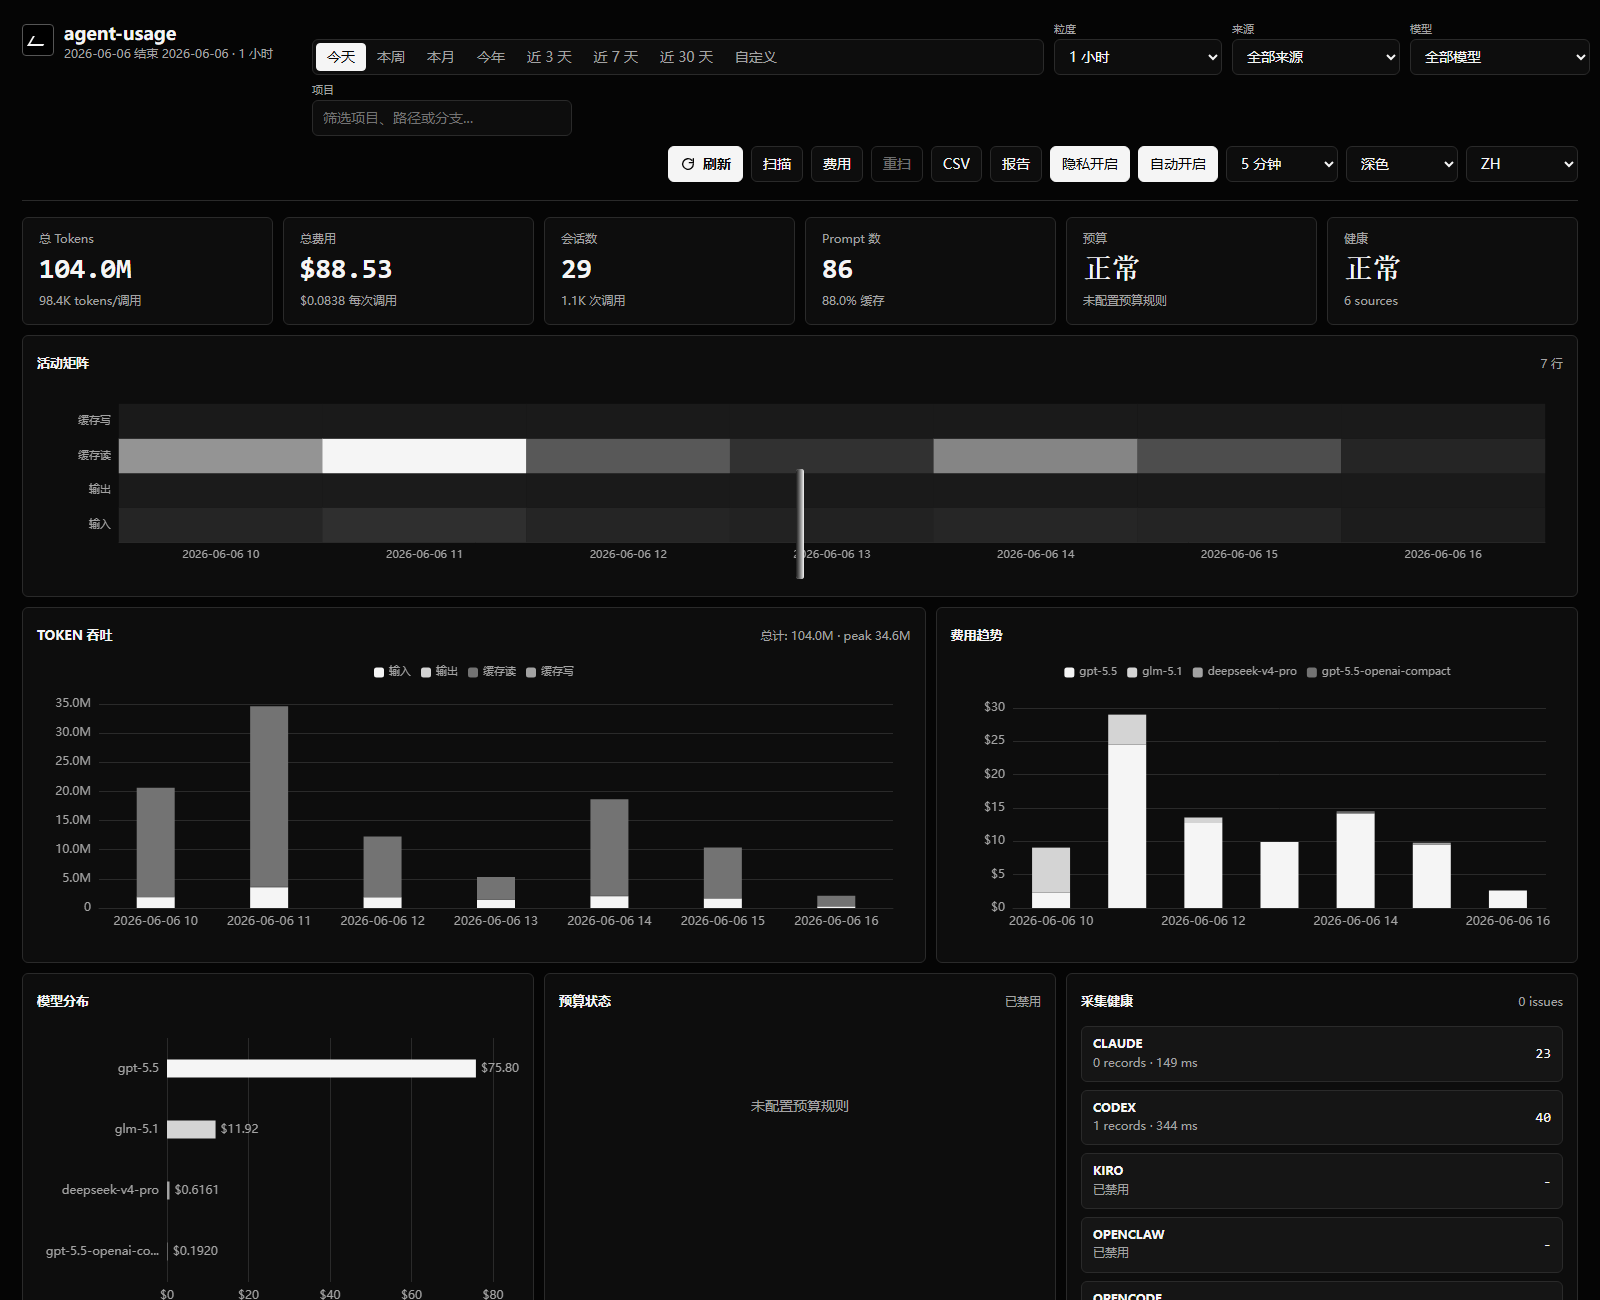
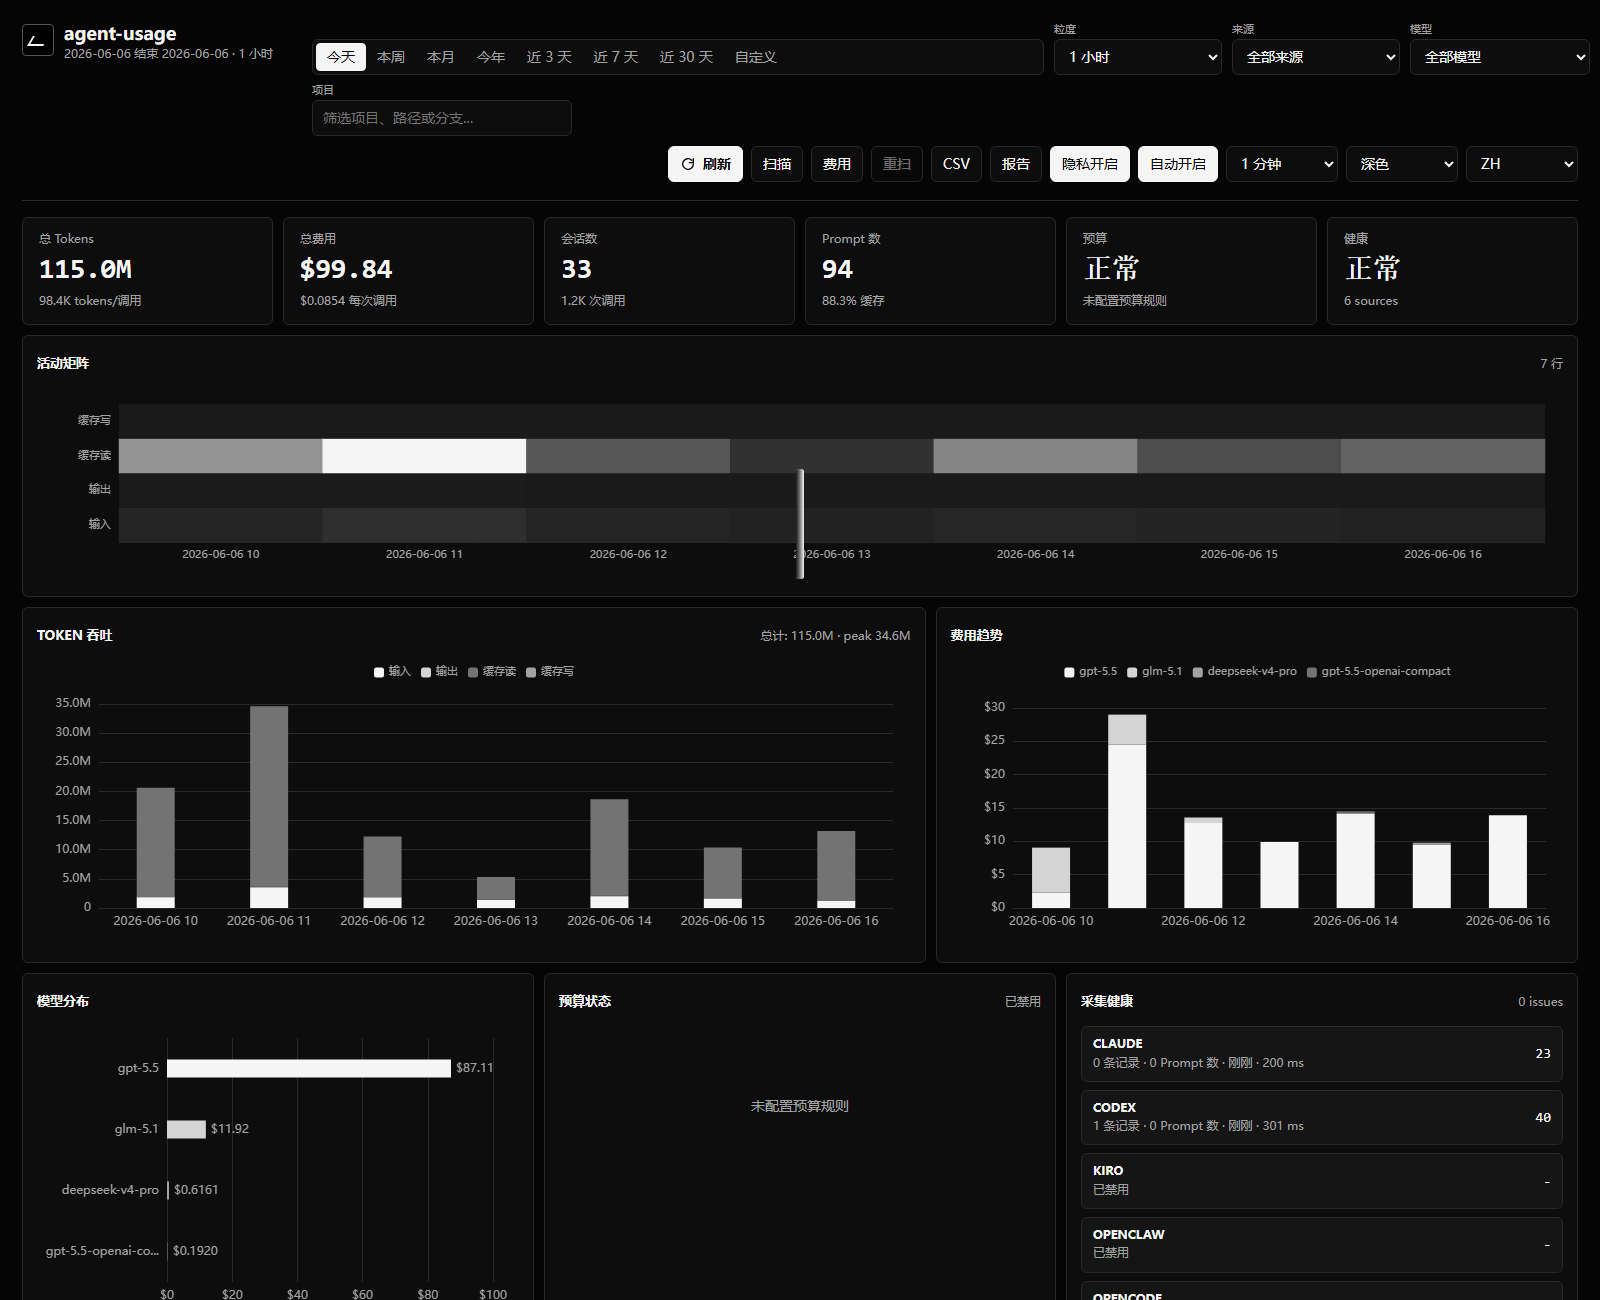
fix: make live agent usage updates more visible

diff --git a/internal/server/static/app.js b/internal/server/static/app.js
@@ -120,6 +120,7 @@ const I18N = {
     ok: "ok",
     unknownModel: "Unknown model",
     rows: "rows",
+    records: "records",
     unitMin: "min",
     unitSec: "sec",
   },
@@ -222,6 +223,7 @@ const I18N = {
     ok: "正常",
     unknownModel: "未知模型",
     rows: "行",
+    records: "条记录",
     unitMin: "分钟",
     unitSec: "秒",
   },
@@ -257,7 +259,7 @@ let state = {
   preset: localStorage.getItem("au-preset") || "today",
   granularity: localStorage.getItem("au-granularity") || "1h",
   autoRefresh: localStorage.getItem("au-autoRefresh") !== "false",
-  refreshInterval: Number(localStorage.getItem("au-refreshInterval") || 300),
+  refreshInterval: Number(localStorage.getItem("au-refreshInterval") || 60),
   customFrom: localStorage.getItem("au-customFrom") || "",
   customTo: localStorage.getItem("au-customTo") || "",
   source: localStorage.getItem("au-source") || "",
@@ -566,7 +568,10 @@ function renderHealth(rows) {
       if (disabled) detail.textContent = t("disabled");
       else if (hasError) detail.textContent = `${t("lastError")}: ${row.last_error}`;
       else if (pathIssues.length) detail.textContent = pathIssues.map((p) => p.exists ? t("unreadablePath") : t("missingPath")).join(", ");
-      else detail.textContent = `${fmt(row.records_inserted || 0)} records · ${fmt(row.duration_ms || 0)} ms`;
+      else {
+        const lastScan = row.last_scan_at ? relTime(row.last_scan_at) : "-";
+        detail.textContent = `${fmt(row.records_inserted || 0)} ${t("records")} · ${fmt(row.prompts_inserted || 0)} ${t("prompts")} · ${lastScan} · ${fmt(row.duration_ms || 0)} ms`;
+      }
       main.append(title, detail);
       const value = document.createElement("div");
       value.className = "ops-value";

diff --git a/README.md b/README.md
@@ -110,7 +110,7 @@ collectors:
     enabled: true
     paths:
       - "~/.codex/sessions"
-    scan_interval: 60s
+    scan_interval: 30s
   openclaw:
     enabled: true
     paths:
@@ -120,7 +120,7 @@ collectors:
     enabled: true
     paths:
       - "~/.local/share/opencode/opencode.db"
-    scan_interval: 60s
+    scan_interval: 30s
   kiro:
     enabled: true
     paths:

diff --git a/README_CN.md b/README_CN.md
@@ -110,7 +110,7 @@ collectors:
     enabled: true
     paths:
       - "~/.codex/sessions"
-    scan_interval: 60s
+    scan_interval: 30s
   openclaw:
     enabled: true
     paths:
@@ -120,7 +120,7 @@ collectors:
     enabled: true
     paths:
       - "~/.local/share/opencode/opencode.db"
-    scan_interval: 60s
+    scan_interval: 30s
   kiro:
     enabled: true
     paths: